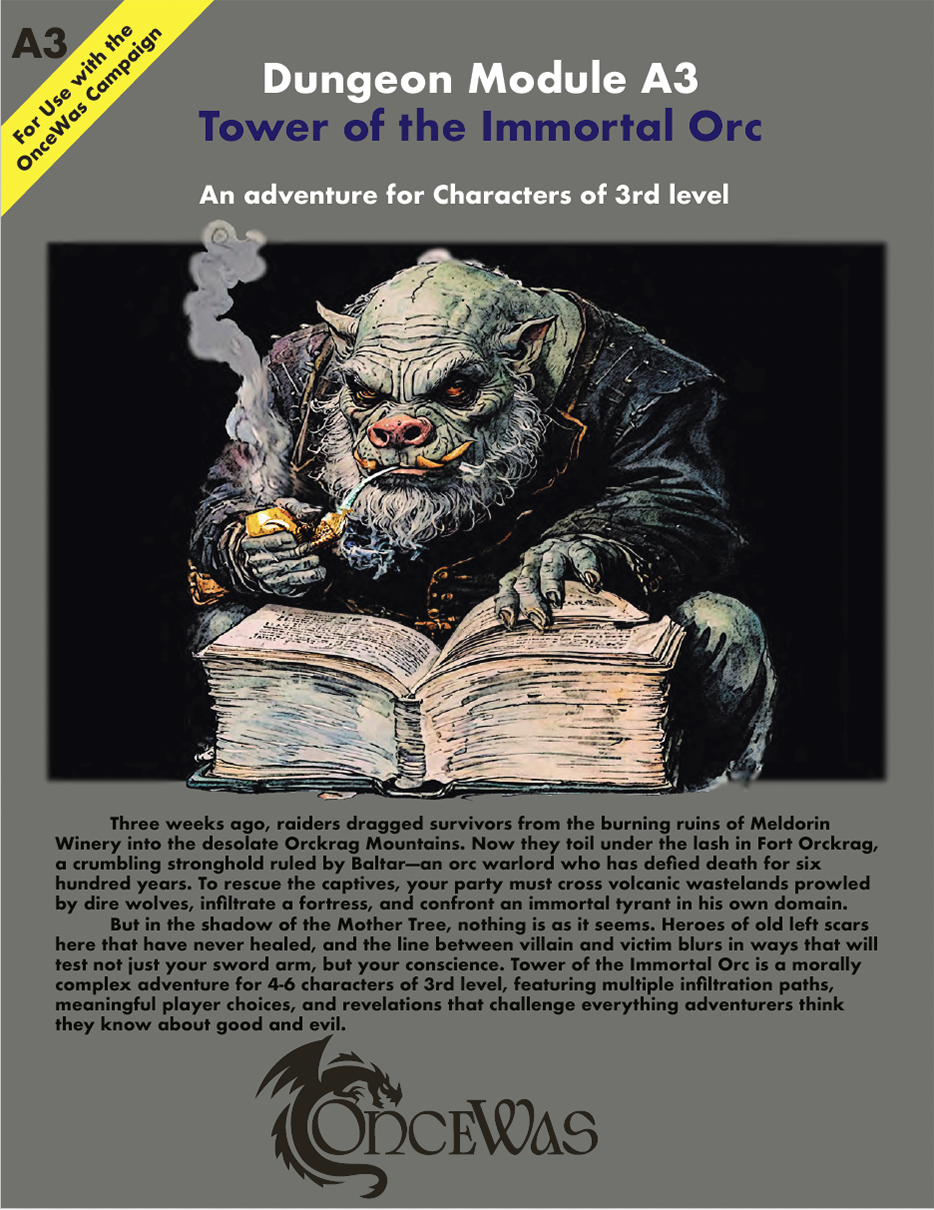
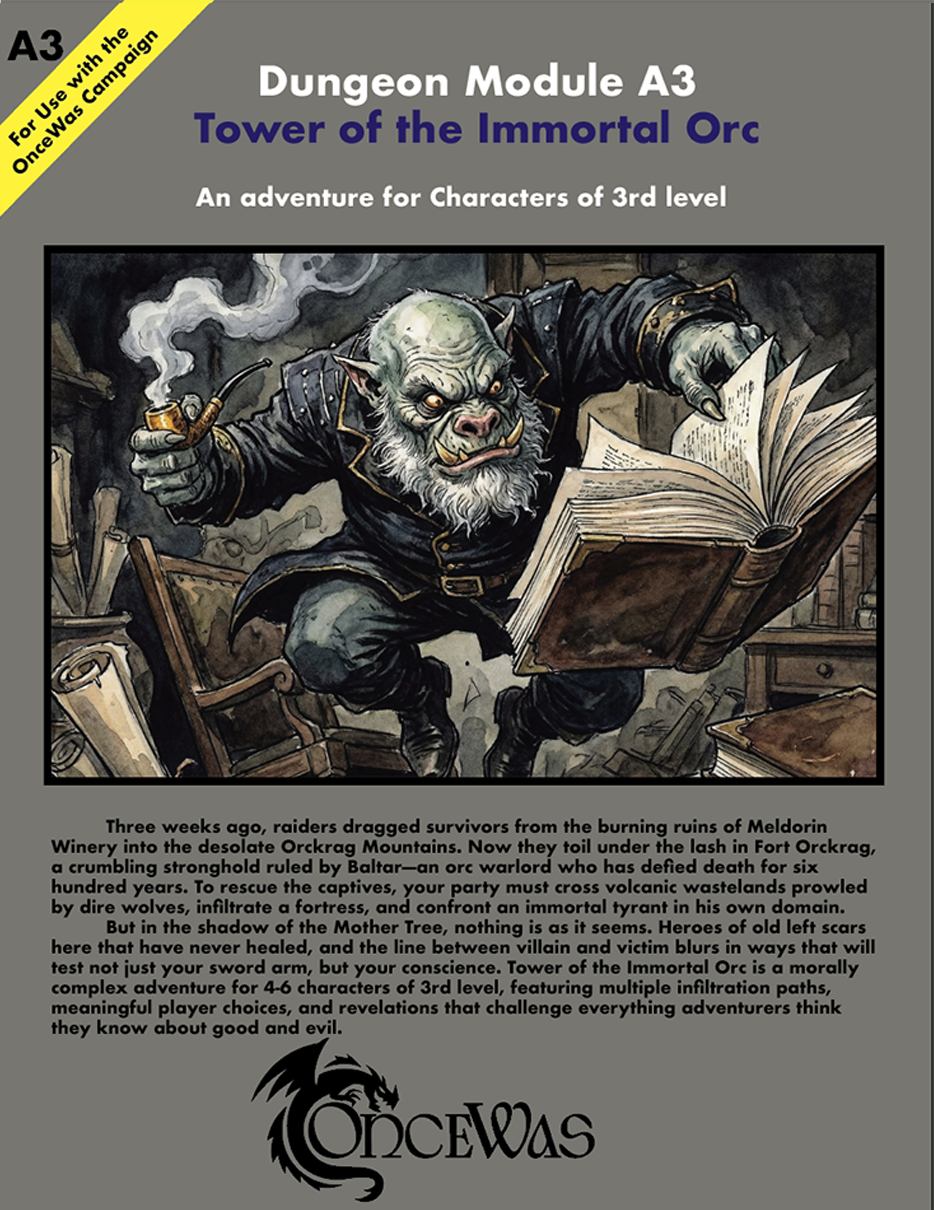
Tower_of_the_Immortal_Orc

diff --git a/index.html b/index.html
@@ -1135,7 +1135,7 @@
                     <div class="mini-card-label">A2: Meldorin Winery</div>
                 </a>
                 <a href="https://www.drivethrurpg.com/product/YOUR_A3_PRODUCT_ID?affiliate_id=237690" target="_blank" class="adventure-mini-card">
-                    <img src="Tower_of_the_Immortal_Orc.png" alt="A3: Tower of the Immortal Orc">
+                    <img src="Tower_of_the_Immortal_Orc_Cover.jpg" alt="A3: Tower of the Immortal Orc">
                     <div class="mini-card-label">A3: Immortal Orc</div>
                 </a>
                 <a href="https://www.drivethrurpg.com/product/YOUR_A4_PRODUCT_ID?affiliate_id=237690" target="_blank" class="adventure-mini-card">
@@ -1567,7 +1567,7 @@
                 
                 <div class="adventure-card">
                     <div class="adventure-image">
-                        <img src="Tower_of_the_Immortal_Orc.png" alt="Tower of the Immortal Orc Cover" style="width: 100%; height: auto;">
+                        <img src="Tower_of_the_Immortal_Orc_Cover.jpg" alt="Tower of the Immortal Orc Cover" style="width: 100%; height: auto;">
                     </div>
                     <h3>A3: Tower of the Immortal Orc</h3>
                     <p class="level-info">For 4-6 characters of 3rd level</p>
